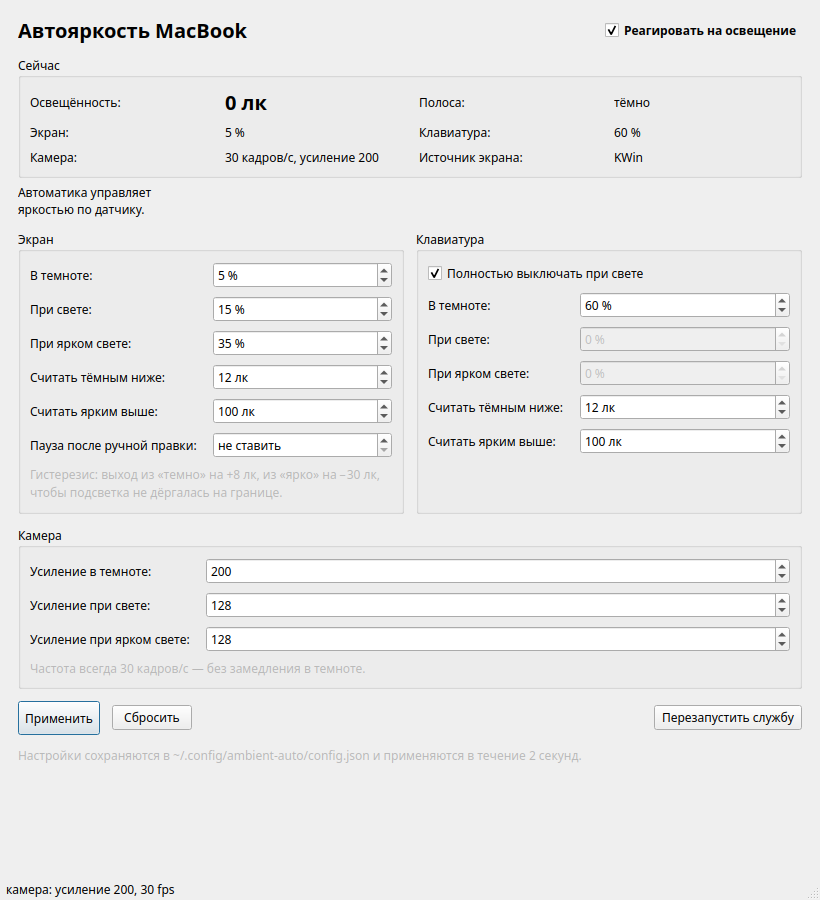
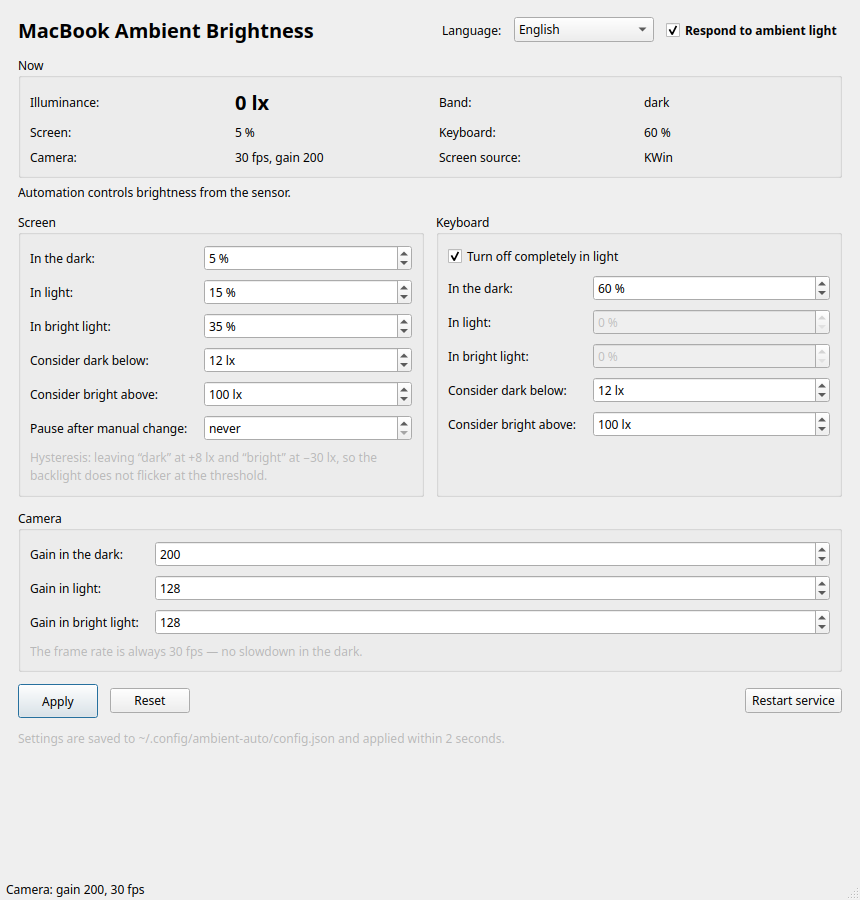
docs: описать выбор языка, обновить скриншоты и историю
Раздел «Язык интерфейса», ключ language в таблице настроек, скриншоты
на русском и английском языках и в тёмном режиме.

diff --git a/README.md b/README.md
@@ -7,7 +7,9 @@
 
 [![build](https://github.com/marfffan/ambient-auto/actions/workflows/build.yml/badge.svg)](https://github.com/marfffan/ambient-auto/actions/workflows/build.yml)
 
-![Приложение «Автояркость MacBook»](docs/screenshot-light.png)
+![Приложение «Автояркость MacBook»](docs/screenshot-ru.png)
+
+<sub>English UI — [screenshot-en.png](docs/screenshot-en.png), тёмный режим — [screenshot-dark.png](docs/screenshot-dark.png)</sub>
 
 ## Зачем это нужно
 
@@ -19,7 +21,8 @@ KDE Powerdevil умеет менять яркость по датчику тол
 - клавиатура полностью гаснет при любом свете (настраивается);
 - камера никогда не замедляется: всегда 30 кадров/с, в темноте яркость
   добирается цифровым усилением;
-- всё настраивается в приложении, без правки файлов и перезапуска службы.
+- всё настраивается в приложении, без правки файлов и перезапуска службы;
+- интерфейс на пяти языках, переключается прямо в окне и запоминается.
 
 ## Возможности
 
@@ -40,11 +43,11 @@ KDE Powerdevil умеет менять яркость по датчику тол
 
 ### Готовый пакет
 
-Скачайте `ambient-auto_1.0.0_all.deb` со страницы
+Скачайте `ambient-auto_1.0.1_all.deb` со страницы
 [Releases](https://github.com/marfffan/ambient-auto/releases) и установите:
 
 ```sh
-sudo apt install ./ambient-auto_1.0.0_all.deb
+sudo apt install ./ambient-auto_1.0.1_all.deb
 ```
 
 Пакет сам:
@@ -68,7 +71,7 @@ ambient-auto-gui
 git clone https://github.com/marfffan/ambient-auto.git
 cd ambient-auto
 ./build-deb.sh          # или make deb
-sudo apt install ./build/ambient-auto_1.0.0_all.deb
+sudo apt install ./build/ambient-auto_1.0.1_all.deb
 ```
 
 ## Как пользоваться
@@ -91,6 +94,23 @@ sudo apt install ./build/ambient-auto_1.0.0_all.deb
 Пороги и проценты для экрана и клавиатуры задаются независимо.
 
 Изменения применяются в течение 2 секунд, перезапуск не нужен.
+
+## Язык интерфейса
+
+Язык выбирается в самом приложении — список в правой части заголовка окна.
+Смена языка применяется сразу, перезапускать ничего не нужно.
+
+Доступны: русский, английский, немецкий, испанский, французский и пункт
+«Системный» — он берёт язык из локали сеанса (`LANG`/`LC_ALL`), а при
+неизвестной локали показывает английский.
+
+Выбор хранится в конфиге ключом `language` и переживает перезапуск службы и
+переустановку пакета. Название и описание приложения в меню KDE тоже
+переводятся (`Name[ru]`, `Name[en]` и т. д. в desktop-файле).
+
+Переводы лежат в `src/i18n.py` обычными словарями — чтобы добавить язык,
+достаточно дописать словарь и строку в `LANGUAGES`, никакие `.ts`/`.qm` и
+`lrelease` не нужны.
 
 ## Как это работает
 
@@ -117,6 +137,7 @@ sudo apt install ./build/ambient-auto_1.0.0_all.deb
   "enabled": true,
   "poll_seconds": 2.0,
   "manual_pause_minutes": 0,
+  "language": "system",
   "screen": {
     "dark": 5, "normal": 15, "bright": 35,
     "dark_enter": 12, "dark_exit": 20,
@@ -136,6 +157,7 @@ sudo apt install ./build/ambient-auto_1.0.0_all.deb
 | `enabled` | включена ли автоматика |
 | `poll_seconds` | период опроса датчика, секунды |
 | `manual_pause_minutes` | пауза после ручной правки яркости в панели KDE (0 — не ставить) |
+| `language` | язык интерфейса: `system`, `ru`, `en`, `de`, `es`, `fr` |
 | `screen.*` / `keyboard.*` | проценты яркости для полос и пороги в люксах |
 | `camera.*` | цифровое усиление по полосам; `fps` — частота кадров |
 
@@ -146,6 +168,7 @@ sudo apt install ./build/ambient-auto_1.0.0_all.deb
 ```
 src/ambient-auto          демон
 src/gui.py                приложение (PyQt6)
+src/i18n.py               переводы интерфейса
 src/ambient-auto-gui      launcher
 systemd/                  unit-файл службы
 share/                    конфиг по умолчанию, desktop-файл, иконка

diff --git a/CHANGELOG.md b/CHANGELOG.md
@@ -1,5 +1,24 @@
 # История изменений
 
+## 1.0.1 — 2026-10-31
+
+- Выбор языка интерфейса прямо в приложении: русский, английский, немецкий,
+  испанский, французский и пункт «Системный» (язык из локали сеанса).
+  Переключение применяется сразу, без перезапуска, и сохраняется в конфиге
+  ключом `language`.
+- Переводы вынесены в `src/i18n.py` — обычные словари, без `.ts`/`.qm` и
+  `lrelease`; добавить язык можно одной таблицей.
+- Демон публикует структурированные события (`message_key`/`message_params`),
+  поэтому сообщения о состоянии в строке статуса тоже переводятся. Старое
+  поле `message` на русском сохранено для совместимости.
+- Единицы измерения (лк/lx, мин/min, кадров/с/fps) переводятся вместе с
+  интерфейсом.
+- Локализованы название и описание приложения в меню KDE
+  (`Name[de]`, `Name[es]`, `Name[fr]`).
+- Новые скриншоты: русский, английский и тёмный режим.
+- Конфиг по умолчанию получил ключ `"language": "system"`; старые конфиги
+  без него продолжают работать.
+
 ## 1.0.0 — 2026-10-31
 
 Первый публичный выпуск.
